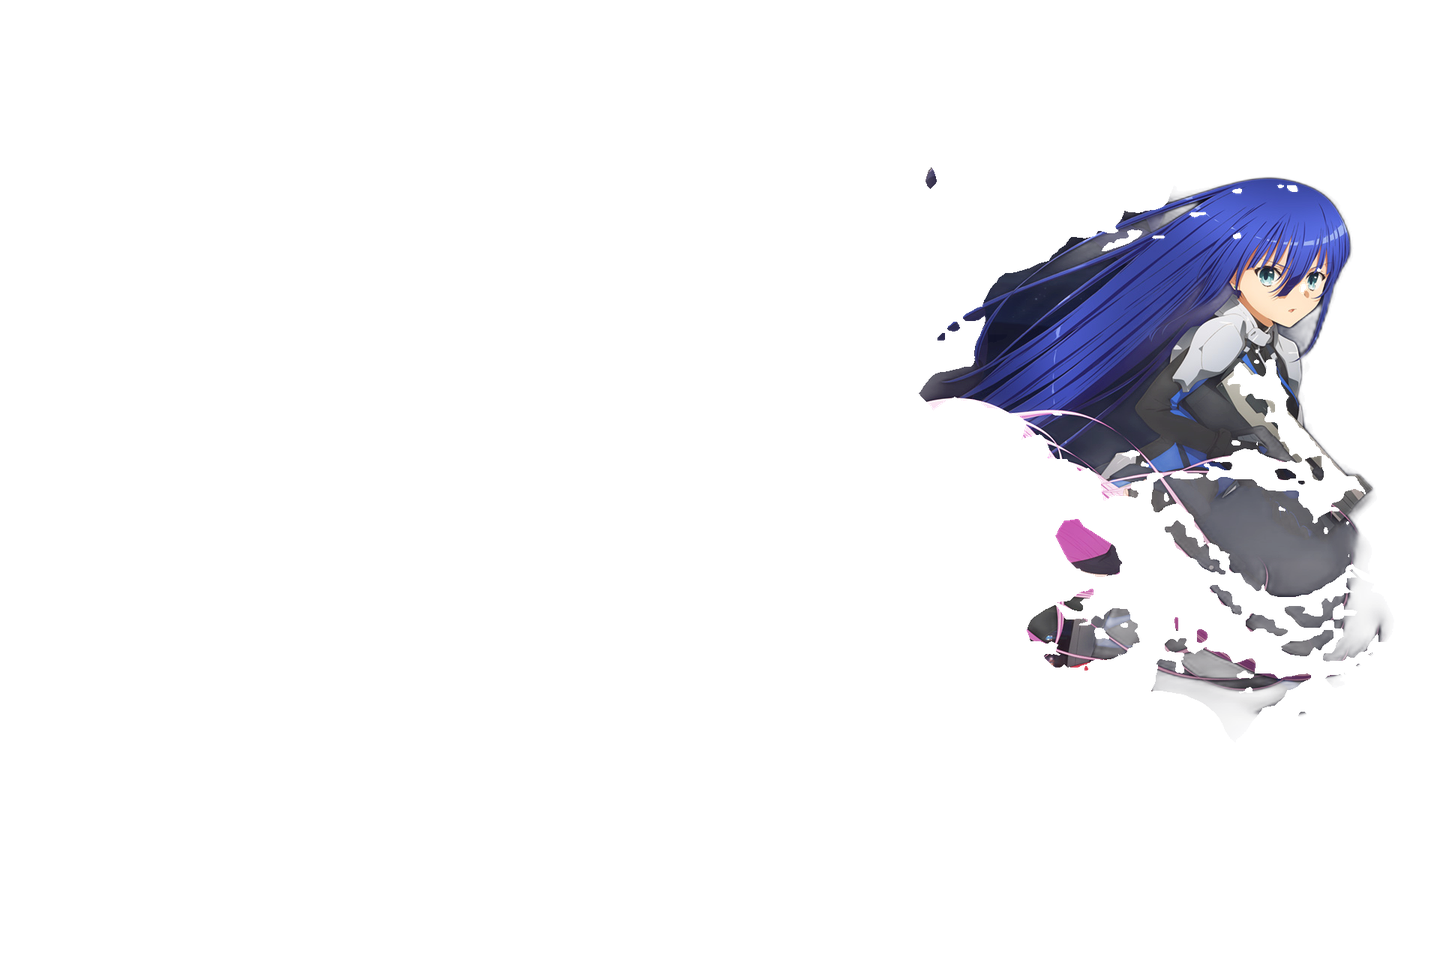
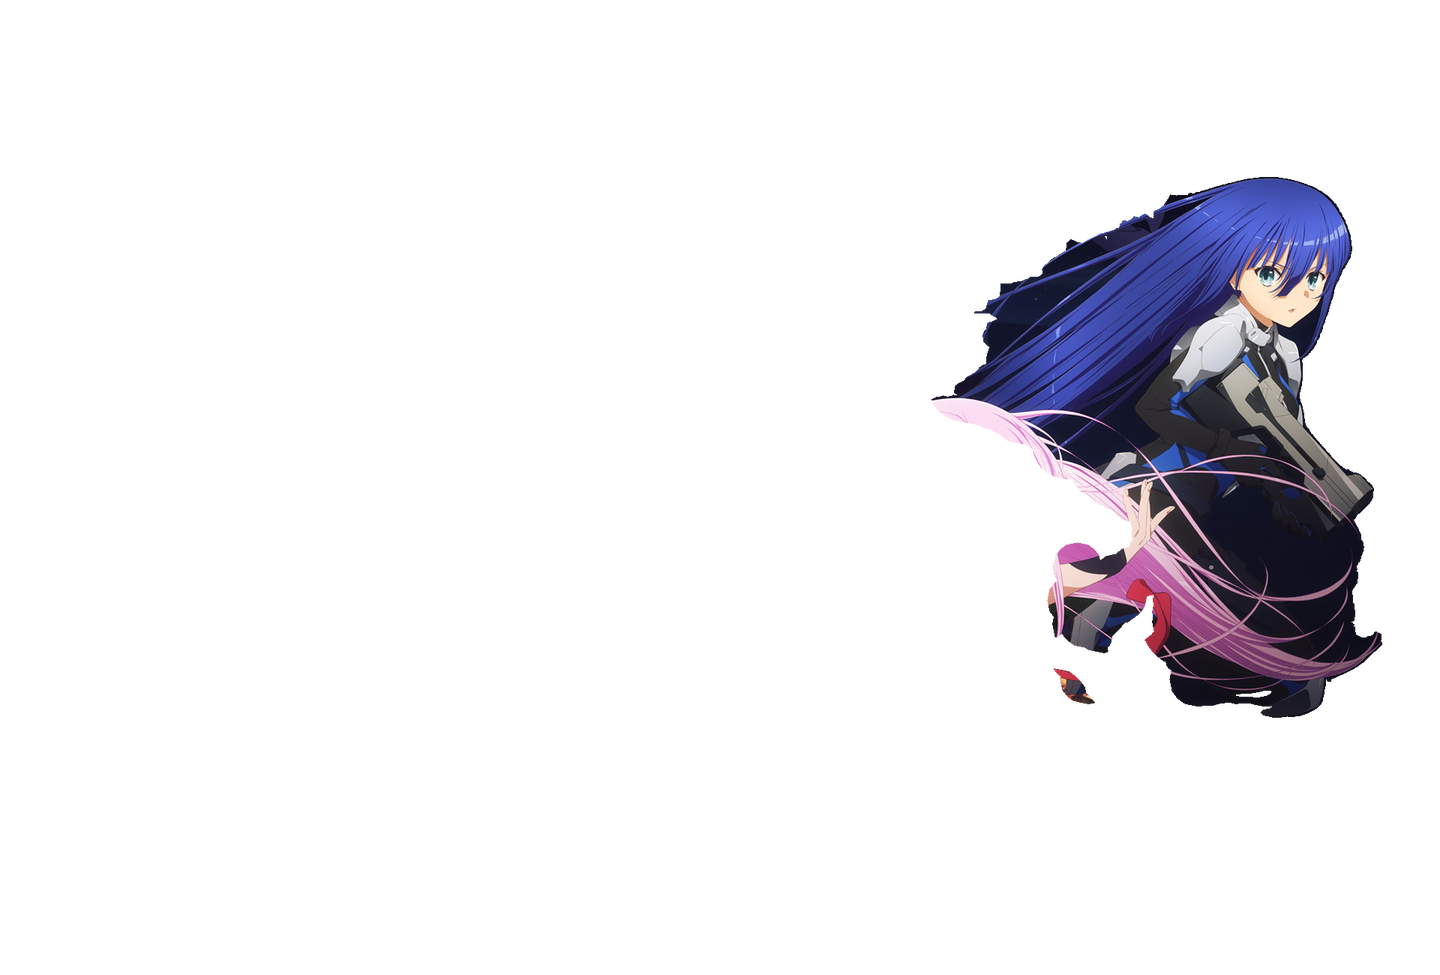
Fix Kisara blog character layering

diff --git a/src/themes/kisara/styles/blog.css b/src/themes/kisara/styles/blog.css
@@ -26,7 +26,7 @@
 
 .kisara-blog-scene > img {
   object-fit: cover;
-  object-position: center 48%;
+  object-position: center 4%;
   pointer-events: none;
 }
 

diff --git a/scripts/extract_kisara_blog_layers.py b/scripts/extract_kisara_blog_layers.py
@@ -3,162 +3,128 @@ from __future__ import annotations
 import argparse
 from pathlib import Path
 
-import cv2
 import numpy as np
-from PIL import Image, ImageEnhance, ImageFilter
-from rembg import new_session
+from PIL import Image, ImageDraw, ImageEnhance, ImageFilter
 
 
 ROOT = Path(__file__).resolve().parents[1]
 DEFAULT_SOURCE = ROOT / "kisara" / "engage kiss.png"
+DEFAULT_MASKS = ROOT / "scripts" / "assets" / "kisara-blog-masks"
 DEFAULT_OUTPUT = ROOT / "public" / "themes" / "kisara" / "assets" / "blog"
 
 CHARACTERS = [
-    {
-        "name": "kisara-front",
-        "prompt": [
-            {"type": "rectangle", "label": 1, "data": [0, 500, 1915, 1298]},
-            {"type": "point", "label": 1, "data": [1225, 720]},
-            {"type": "point", "label": 1, "data": [1190, 970]},
-            {"type": "point", "label": 1, "data": [1650, 760]},
-            {"type": "point", "label": 1, "data": [725, 1000]},
-            {"type": "point", "label": 1, "data": [235, 950]},
-            {"type": "point", "label": 0, "data": [845, 510]},
-            {"type": "point", "label": 0, "data": [1590, 420]},
-            {"type": "point", "label": 0, "data": [1265, 235]},
-        ],
-    },
-    {
-        "name": "shu-middle",
-        "prompt": [
-            {"type": "rectangle", "label": 1, "data": [615, 285, 1195, 1298]},
-        ],
-    },
-    {
-        "name": "ayano-middle",
-        "prompt": [
-            {"type": "rectangle", "label": 1, "data": [1200, 205, 1840, 930]},
-            {"type": "point", "label": 1, "data": [1605, 350]},
-            {"type": "point", "label": 1, "data": [1580, 560]},
-            {"type": "point", "label": 1, "data": [1665, 680]},
-            {"type": "point", "label": 1, "data": [1375, 425]},
-            {"type": "point", "label": 0, "data": [1370, 740]},
-            {"type": "point", "label": 0, "data": [1290, 275]},
-            {"type": "point", "label": 0, "data": [1110, 610]},
-        ],
-    },
-    {
-        "name": "sharon-back",
-        "prompt": [
-            {"type": "rectangle", "label": 1, "data": [745, 35, 1595, 705]},
-            {"type": "point", "label": 1, "data": [1295, 165]},
-            {"type": "point", "label": 1, "data": [1305, 350]},
-            {"type": "point", "label": 1, "data": [1010, 190]},
-            {"type": "point", "label": 1, "data": [1115, 470]},
-        ],
-    },
+    {"name": "kisara-front", "mask": "kisara-front.png"},
+    {"name": "shu-middle", "mask": "shu-middle.png"},
+    {"name": "ayano-middle", "mask": "ayano-middle.png"},
+    {"name": "sharon-back", "mask": "sharon-back.png"},
 ]
 
-def refine_seed(mask: Image.Image, width: int, height: int) -> np.ndarray:
-    array = np.asarray(mask.resize((width, height), Image.Resampling.LANCZOS), dtype=np.uint8)
-    binary = np.where(array >= 112, 255, 0).astype(np.uint8)
-    kernel = np.ones((3, 3), dtype=np.uint8)
-    return cv2.morphologyEx(binary, cv2.MORPH_CLOSE, kernel, iterations=1)
 
+def load_masks(mask_dir: Path, source_size: tuple[int, int]) -> dict[str, Image.Image]:
+    masks: dict[str, Image.Image] = {}
+    for character in CHARACTERS:
+        mask_path = mask_dir / character["mask"]
+        if not mask_path.exists():
+            raise FileNotFoundError(mask_path)
 
-def partition_union(seeds: dict[str, np.ndarray], union_alpha: np.ndarray) -> dict[str, np.ndarray]:
-    names = [character["name"] for character in CHARACTERS]
-    distances = []
-    for name in names:
-        background_to_seed = np.where(seeds[name] > 0, 0, 1).astype(np.uint8)
-        distances.append(cv2.distanceTransform(background_to_seed, cv2.DIST_L2, 5))
+        mask = Image.open(mask_path).convert("L")
+        if mask.size != source_size:
+            raise ValueError(f"{mask_path} is {mask.size}, expected {source_size}")
 
-    owner = np.argmin(np.stack(distances, axis=0), axis=0)
-    foreground = union_alpha > 4
-    masks: dict[str, np.ndarray] = {}
-    for index, name in enumerate(names):
-        alpha = np.where(foreground & (owner == index), union_alpha, 0).astype(np.uint8)
-        alpha[alpha < 6] = 0
-        alpha[alpha > 249] = 255
-        masks[name] = alpha
+        binary = np.where(np.asarray(mask, dtype=np.uint8) >= 128, 255, 0).astype(np.uint8)
+        if not np.any(binary):
+            raise ValueError(f"{mask_path} is empty")
+        masks[character["name"]] = Image.fromarray(binary, mode="L")
     return masks
 
 
-def save_layer(source: np.ndarray, alpha: np.ndarray, path: Path, target_width: int) -> None:
-    rgba = np.dstack((source, alpha))
-    image = Image.fromarray(rgba, mode="RGBA")
-    target_height = round(image.height * target_width / image.width)
-    image = image.resize((target_width, target_height), Image.Resampling.LANCZOS)
-    image.save(path, "WEBP", lossless=True, method=6)
+def resize_scene(source: Image.Image, target_width: int) -> Image.Image:
+    target_height = round(source.height * target_width / source.width)
+    return source.resize((target_width, target_height), Image.Resampling.LANCZOS)
+
+
+def save_layer(source: Image.Image, alpha: Image.Image, path: Path, target_width: int) -> None:
+    scene = resize_scene(source, target_width).convert("RGBA")
+    resized_alpha = alpha.resize(scene.size, Image.Resampling.LANCZOS)
+    scene.putalpha(resized_alpha)
+    scene.save(path, "WEBP", lossless=True, method=6)
 
 
 def save_scene(source: Image.Image, path: Path, target_width: int) -> None:
-    target_height = round(source.height * target_width / source.width)
-    scene = source.resize((target_width, target_height), Image.Resampling.LANCZOS)
+    scene = resize_scene(source, target_width)
     scene = scene.filter(ImageFilter.GaussianBlur(radius=13))
     scene = ImageEnhance.Brightness(scene).enhance(0.44)
     scene = ImageEnhance.Color(scene).enhance(0.76)
     scene.save(path, "WEBP", quality=84, method=6)
 
 
-def save_preview(masks: dict[str, np.ndarray], source: np.ndarray, path: Path) -> None:
-    previews = []
-    colors = [(255, 63, 111), (94, 164, 255), (134, 117, 255), (255, 200, 111)]
-    for (name, alpha), color in zip(masks.items(), colors, strict=True):
-        tinted = source.astype(np.float32) * 0.34
-        overlay = np.empty_like(source)
-        overlay[:] = color
-        weight = (alpha.astype(np.float32) / 255.0)[..., None]
-        tinted = tinted * (1 - weight * 0.55) + overlay * (weight * 0.55)
-        panel = Image.fromarray(np.clip(tinted, 0, 255).astype(np.uint8))
-        panel.thumbnail((640, 440), Image.Resampling.LANCZOS)
-        previews.append((name, panel.copy()))
+def save_preview(
+    masks: dict[str, Image.Image],
+    source: Image.Image,
+    path: Path,
+    target_width: int,
+) -> None:
+    scene = resize_scene(source, target_width)
+    background = scene.filter(ImageFilter.GaussianBlur(radius=13))
+    background = ImageEnhance.Brightness(background).enhance(0.44)
+    background = ImageEnhance.Color(background).enhance(0.76).convert("RGBA")
+    panels: list[Image.Image] = []
 
-    sheet = Image.new("RGB", (1280, 920), (8, 10, 28))
-    for index, (_, panel) in enumerate(previews):
-        x = (index % 2) * 640
-        y = (index // 2) * 460
-        sheet.paste(panel, (x, y))
+    # Characters enter front-to-back, while their visual stacking remains back-to-front.
+    for index, character in enumerate(CHARACTERS, start=1):
+        canvas = background.copy()
+        for visible_character in reversed(CHARACTERS[:index]):
+            alpha = masks[visible_character["name"]].resize(scene.size, Image.Resampling.LANCZOS)
+            layer = scene.convert("RGBA")
+            layer.putalpha(alpha)
+            canvas.alpha_composite(layer)
+
+        panel = canvas.convert("RGB")
+        panel.thumbnail((720, 488), Image.Resampling.LANCZOS)
+        framed = Image.new("RGB", (720, 520), (8, 10, 28))
+        framed.paste(panel, ((720 - panel.width) // 2, 32))
+        ImageDraw.Draw(framed).text(
+            (14, 10),
+            f"STAGE {index}: {character['name'].upper()}",
+            fill="white",
+        )
+        panels.append(framed)
+
+    sheet = Image.new("RGB", (1440, 1040), (8, 10, 28))
+    for index, panel in enumerate(panels):
+        sheet.paste(panel, ((index % 2) * 720, (index // 2) * 520))
     sheet.save(path, "WEBP", quality=88, method=6)
 
 
 def main() -> None:
-    parser = argparse.ArgumentParser(description="Extract the four Engage Kiss characters for the Kisara blog hero.")
+    parser = argparse.ArgumentParser(description="Build the four layered characters for the Kisara Blog hero.")
     parser.add_argument("--source", type=Path, default=DEFAULT_SOURCE)
+    parser.add_argument("--masks", type=Path, default=DEFAULT_MASKS)
     parser.add_argument("--output", type=Path, default=DEFAULT_OUTPUT)
     parser.add_argument("--width", type=int, default=1440)
     parser.add_argument("--preview", action="store_true")
     args = parser.parse_args()
 
     source_path = args.source.resolve()
+    mask_path = args.masks.resolve()
     output_path = args.output.resolve()
     if not source_path.exists():
         raise FileNotFoundError(source_path)
+    if args.width <= 0:
+        raise ValueError("--width must be greater than zero")
 
     output_path.mkdir(parents=True, exist_ok=True)
     source_image = Image.open(source_path).convert("RGB")
-    source_array = np.asarray(source_image)
-    sam_session = new_session("sam")
-    anime_session = new_session("isnet-anime")
-    union_mask = anime_session.predict(source_image)[0].convert("L")
-    union_alpha = np.array(union_mask, dtype=np.uint8, copy=True)
-    union_alpha[union_alpha < 6] = 0
-    union_alpha[union_alpha > 249] = 255
-
-    seeds: dict[str, np.ndarray] = {}
-    for character in CHARACTERS:
-        predicted = sam_session.predict(source_image, sam_prompt=character["prompt"])[0]
-        seeds[character["name"]] = refine_seed(predicted, source_image.width, source_image.height)
-
-    masks = partition_union(seeds, union_alpha)
+    masks = load_masks(mask_path, source_image.size)
 
     save_scene(source_image, output_path / "engage-kiss-scene.webp", args.width)
     for character in CHARACTERS:
         name = character["name"]
-        save_layer(source_array, masks[name], output_path / f"{name}.webp", args.width)
+        save_layer(source_image, masks[name], output_path / f"{name}.webp", args.width)
+
     preview_path = output_path / "layer-preview.webp"
     if args.preview:
-        save_preview(masks, source_array, preview_path)
+        save_preview(masks, source_image, preview_path, args.width)
     else:
         preview_path.unlink(missing_ok=True)
 
